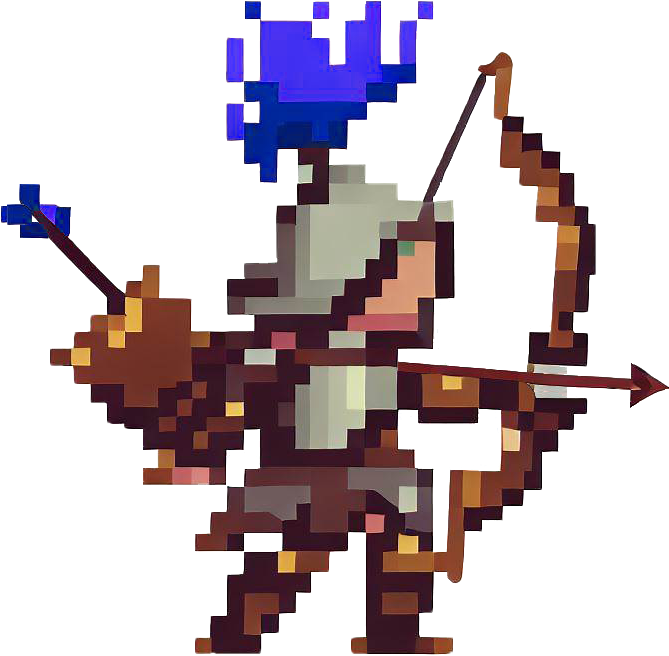
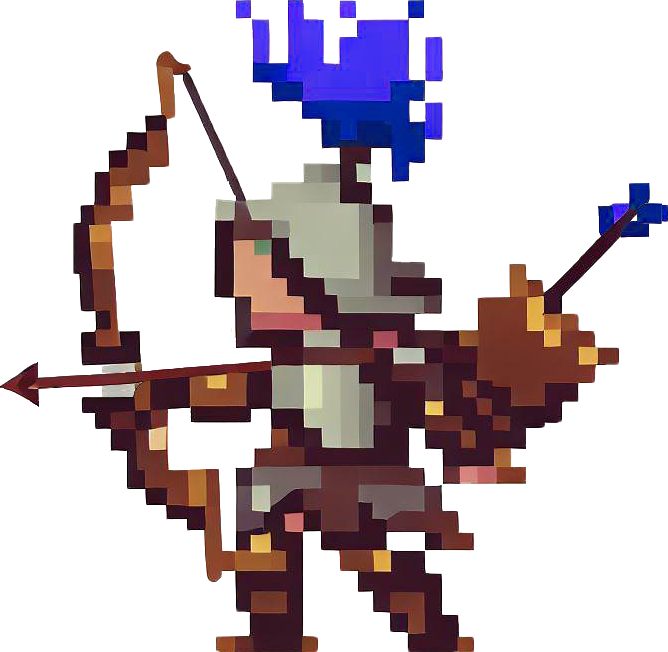
added enemy spawn, fixed sprite

diff --git a/Final_Desarrollo1_2023/Final_Desarrollo1_2023/Entity/Objects/Projectile.cpp b/Final_Desarrollo1_2023/Final_Desarrollo1_2023/Entity/Objects/Projectile.cpp
@@ -54,7 +54,7 @@ namespace Objects
         this->destination = direction;
         this->direction = Vector2Normalize(Vector2Subtract(direction, origin));
         this->team = team;
-        
+
         body.x = origin.x;
         body.y = origin.y;
         body.width = 50;
@@ -77,23 +77,24 @@ namespace Objects
 
     Projectile::~Projectile()
     = default;
-    
+
     void Projectile::Move()
     {
         body.x += direction.x * speed * GetFrameTime();
         body.y += direction.y * speed * GetFrameTime();
 
-        if (team == Entity::player)
+        switch (team)
         {
-            for (Entity::Unit* unit : GameManager::enemyUnits)
-            {
-                if (Collision::AABBCollision(this, unit))
-                {
-                    SetTarget(unit);
-                    Collide();
-                    break;
-                }
-            }
+        case Entity::player:
+            CheckCollision(GameManager::enemyUnits);
+            break;
+        case Entity::enemy:
+            CheckCollision(GameManager::playerUnits);
+            
+            break;
+        case Entity::neutral:
+        default:
+            break;
         }
     }
 
@@ -121,5 +122,18 @@ namespace Objects
     bool Projectile::IsAlive()
     {
         return alive;
+    }
+
+    void Projectile::CheckCollision(const std::vector<Entity::Unit*>& units)
+    {
+        for (Entity::Unit* unit : units)
+        {
+            if (Collision::AABBCollision(this, unit))
+            {
+                SetTarget(unit);
+                Collide();
+                break;
+            }
+        }
     }
 }

diff --git a/Final_Desarrollo1_2023/Final_Desarrollo1_2023/Entity/Unit.cpp b/Final_Desarrollo1_2023/Final_Desarrollo1_2023/Entity/Unit.cpp
@@ -78,22 +78,23 @@ namespace Entity
 
     Rectangle TextureToSourceRec(Texture2D texture)
     {
-        int frameWidth = texture.width;
-        int frameHeight = texture.height;
-        return {0.0f, 0.0f, static_cast<float>(frameWidth), static_cast<float>(frameHeight)};
+        const float frameWidth = static_cast<float>(texture.width);
+        const float frameHeight = static_cast<float>(texture.height);
+        return {0.0f, 0.0f, frameWidth, frameHeight};
     }
 
     void Unit::DrawBody()
     {
         const float scale = 0.05f;
         const float lineWidth = ((body.width + body.height) / 2) / 15;
-        
+
         const Vector2 origin = {static_cast<float>(texture.width) * scale, static_cast<float>(texture.height) * scale};
-        
+
         const Rectangle sourceRec = TextureToSourceRec(texture);
+        const Rectangle invserseSourceRec = {sourceRec.x, sourceRec.y, -sourceRec.width, sourceRec.height};
         const Rectangle destRec = {body.x + body.width / 2, body.y + body.height / 2, body.width, body.height};
-        
-        DrawTexturePro(texture, sourceRec, destRec, origin, 0, RAYWHITE);
+        bool movingRight = direction.x < 0;
+        DrawTexturePro(texture, movingRight ? sourceRec : invserseSourceRec, destRec, origin, 0, RAYWHITE);
 
         if (selected)
         {

diff --git a/Final_Desarrollo1_2023/Final_Desarrollo1_2023/Game/GameManager.cpp b/Final_Desarrollo1_2023/Final_Desarrollo1_2023/Game/GameManager.cpp
@@ -97,6 +97,15 @@ void GameManager::SpawnManager(char input)
 {
     switch (toupper(input))
     {
+    case '1':
+        enemyController->SpawnSoldier(GetMousePosition());
+        break;
+    case '2':
+        enemyController->SpawnCavalry(GetMousePosition());
+        break;
+    case '3':
+        enemyController->SpawnArcher(GetMousePosition());
+        break;
     case 'Q':
         playerUnits.push_back(new Soldier{GetMousePosition(), player, solTexture});
         actionPerformed = true;

diff --git a/Final_Desarrollo1_2023/Final_Desarrollo1_2023/Entity/Objects/Projectile.h b/Final_Desarrollo1_2023/Final_Desarrollo1_2023/Entity/Objects/Projectile.h
@@ -1,4 +1,6 @@
 #pragma once
+#include <vector>
+
 #include "../Unit.h"
 #include "../DefaultEntity.h"
 
@@ -17,10 +19,11 @@ namespace Objects
         void Move();
         void SetTarget(Entity::Unit* unit);
         void DrawBody() override;
-        void Collide();
         bool IsAlive() override;
 
     private:
+        void CheckCollision(const std::vector<Entity::Unit*>& units);
+        void Collide();
         float speed;
         float damage;
 
